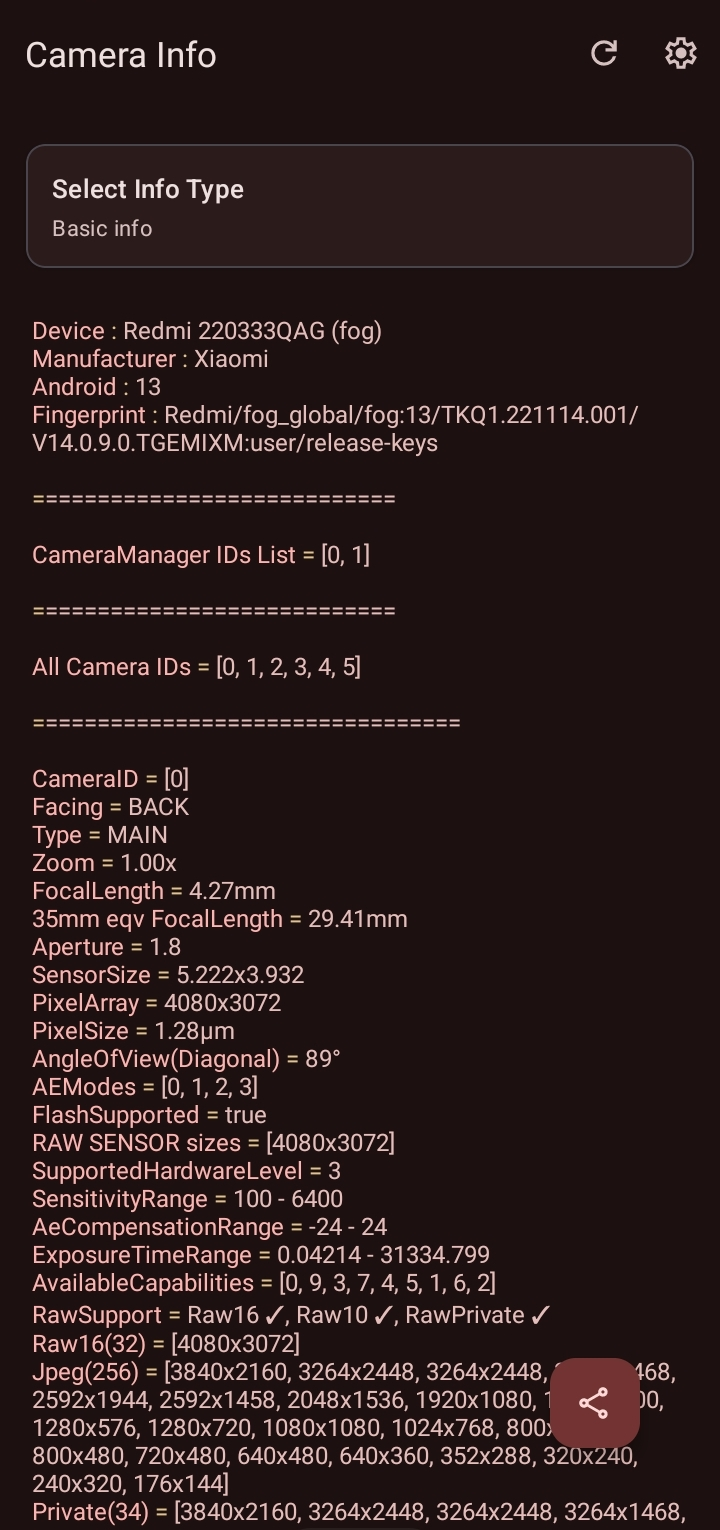
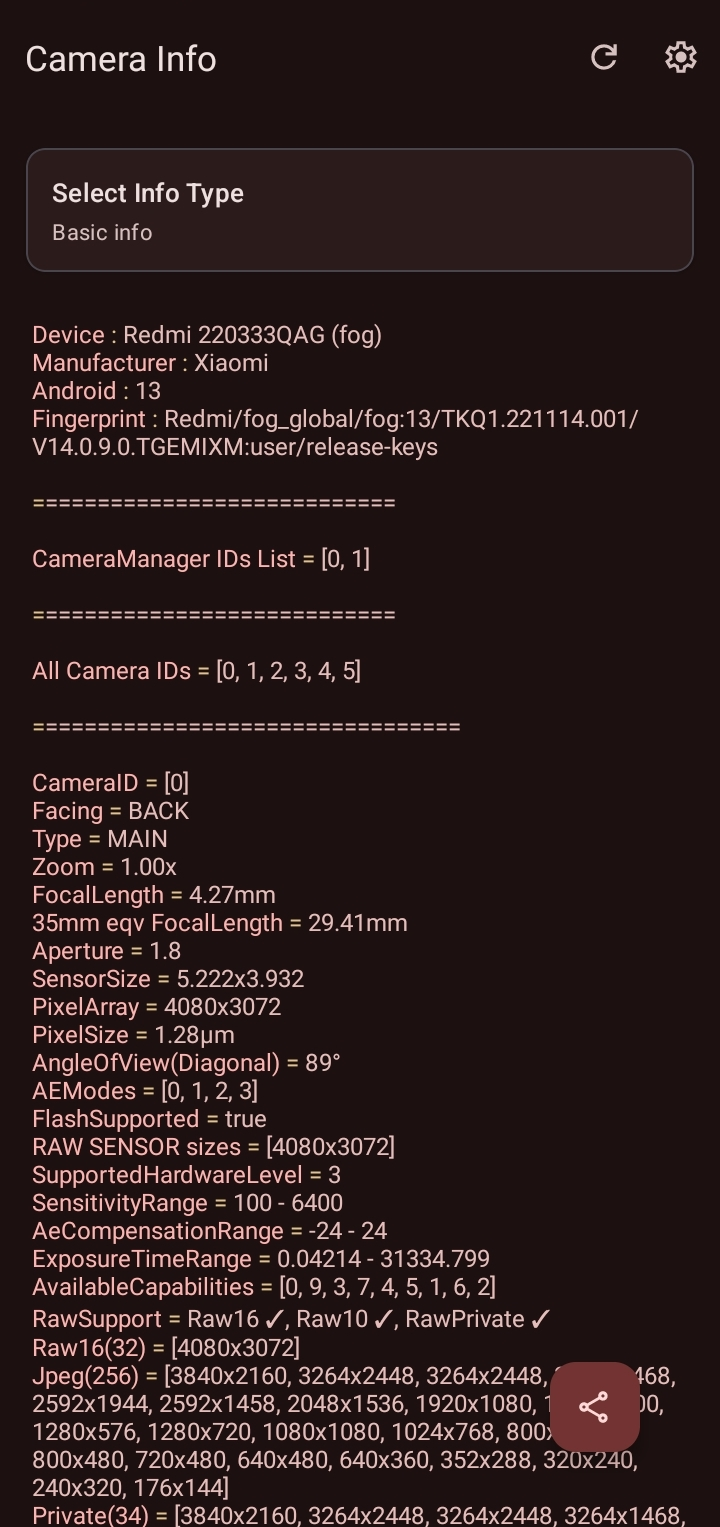
update v1.3(4)

diff --git a/app/src/main/java/com/shamim/camerainfo/CameraInfoHelper.java b/app/src/main/java/com/shamim/camerainfo/CameraInfoHelper.java
@@ -27,6 +27,10 @@ public class CameraInfoHelper {
   }
 
   public static String getAllCameraInfo(CameraManager cm) {
+
+    // extra info
+    int logmode = SharedPrefValues.getValue("pref_log_mode", 0);
+
     StringBuilder sb = new StringBuilder();
 
     try {
@@ -88,23 +92,25 @@ public class CameraInfoHelper {
           SizeF sensorSize = c.get(CameraCharacteristics.SENSOR_INFO_PHYSICAL_SIZE);
           if (focalLengths != null && focalLengths.length > 0 && sensorSize != null) {
             float focal = focalLengths[0];
-            sb.append("FocalLength = ").append(String.format("%.2fmm", focal)).append("\n");
+
+            if (logmode != 1) {
+              sb.append("FocalLength = ").append(String.format("%.2fmm", focal)).append("\n");
+            }
 
             float focalEq = Camera2ApiKeysInfo.calculate35mmeqv(focal, sensorSize);
             sb.append("35mm eqv FocalLength = ")
                 .append(String.format("%.2fmm", focalEq))
                 .append("\n");
           } else {
-            sb.append("FocalLength = ?\n");
+            if (logmode != 1) {
+              sb.append("FocalLength = ?\n");
+            }
             sb.append("35mm eqv FocalLength = ?\n");
           }
         } catch (Exception ignored) {
           sb.append("FocalLength = ?\n");
           sb.append("35mm eqv FocalLength = ?\n");
         }
-
-        // extra info
-        int logmode = SharedPrefValues.getValue("pref_log_mode", 0);
 
         if (logmode == 0) {
           sb.append(Camera2ApiKeysInfo.buildExtraDetails(c));
@@ -115,7 +121,7 @@ public class CameraInfoHelper {
           sb.append(Camera2ApiKeysInfo.formatHwLevel(c));
           sb.append("\n\n");
           sb.append(Camera2ApiKeysInfo.formatAvailableCapabilities(c));
-          sb.append("\n");
+          sb.append("\n\n");
           sb.append(Camera2ApiKeysInfo.formatOutputSizes(c));
           sb.append("\n\n");
           sb.append(Camera2ApiKeysInfo.formatCameraCharacteristics(c));

diff --git a/app/src/main/java/com/shamim/camerainfo/MainActivity.java b/app/src/main/java/com/shamim/camerainfo/MainActivity.java
@@ -189,6 +189,16 @@ public class MainActivity extends AppCompatActivity {
           }
           combinedInfo.append(cameraInformation);
 
+          int keyColor = getColorFromAttr(this, com.google.android.material.R.attr.colorPrimary);
+          int separatorColor =
+              getColorFromAttr(this, com.google.android.material.R.attr.colorTertiary);
+          int valueColor =
+              getColorFromAttr(this, com.google.android.material.R.attr.colorSecondary);
+
+          android.text.SpannableStringBuilder spannableText =
+              ColoredTextHelper.setColoredText(
+                  combinedInfo.toString(), keyColor, separatorColor, valueColor);
+
           // Switch back to UI thread
           runOnUiThread(
               () -> {
@@ -199,15 +209,7 @@ public class MainActivity extends AppCompatActivity {
                     () -> {
                       progressIndicator.setVisibility(View.GONE);
 
-                      int keyColor =
-                          getColorFromAttr(this, com.google.android.material.R.attr.colorPrimary);
-                      int separatorColor =
-                          getColorFromAttr(this, com.google.android.material.R.attr.colorTertiary);
-                      int valueColor =
-                          getColorFromAttr(this, com.google.android.material.R.attr.colorSecondary);
-
-                      ColoredTextHelper.setColoredText(
-                          textView, combinedInfo.toString(), keyColor, separatorColor, valueColor);
+                      textView.setText(spannableText);
                     };
 
                 if (remaining > 0) {

diff --git a/app/src/main/java/com/shamim/camerainfo/Camera2ApiKeysInfo.java b/app/src/main/java/com/shamim/camerainfo/Camera2ApiKeysInfo.java
@@ -398,12 +398,29 @@ public class Camera2ApiKeysInfo {
     try {
       Integer hwLevel = c.get(CameraCharacteristics.INFO_SUPPORTED_HARDWARE_LEVEL);
       if (hwLevel != null) {
-        sb.append("SupportedHardwareLevel = ").append(hwLevel).append("\n");
+        sb.append("SupportedHardwareLevel = ").append(getHardwareLevelName(hwLevel)).append("\n");
       }
     } catch (Exception ignored) {
     }
 
     return sb.toString();
+  }
+
+  public static String getHardwareLevelName(int i) {
+    switch (i) {
+      case 0:
+        return "";
+      case 1:
+        return "1 (full)";
+      case 2:
+        return "2 (legacy)";
+      case 3:
+        return "3";
+      case 4:
+        return "4 (external)";
+      default:
+        return "Null (limited)";
+    }
   }
 
   public static boolean isLogicalCameraId(CameraCharacteristics currentCameraCharacteristics) {

diff --git a/app/src/main/java/com/shamim/camerainfo/ColoredTextHelper.java b/app/src/main/java/com/shamim/camerainfo/ColoredTextHelper.java
@@ -3,12 +3,11 @@ package com.shamim.camerainfo;
 import android.text.Spannable;
 import android.text.SpannableStringBuilder;
 import android.text.style.ForegroundColorSpan;
-import android.widget.TextView;
 
 public class ColoredTextHelper {
 
-  public static void setColoredText(
-      TextView textView, String fullText, int keyColor, int separatorColor, int valueColor) {
+  public static SpannableStringBuilder setColoredText(
+      String fullText, int keyColor, int separatorColor, int valueColor) {
     SpannableStringBuilder spannable = new SpannableStringBuilder();
 
     // Split with limit to preserve trailing newlines
@@ -74,7 +73,6 @@ public class ColoredTextHelper {
         spannable.append("\n");
       }
     }
-
-    textView.setText(spannable);
+    return spannable;
   }
 }

diff --git a/Readme.md b/Readme.md
@@ -94,4 +94,4 @@ Let’s make **Camera Info** even more powerful together.
 
 ## 📦 Download
 
-📥 **[Download the latest release here](https://github.com/ShafiqulIslamShamim/Camera-Info/releases/tag/v1.2)**  
+📥 **[Download the latest release here](https://github.com/ShafiqulIslamShamim/Camera-Info/releases/tag/v1.3)**  
